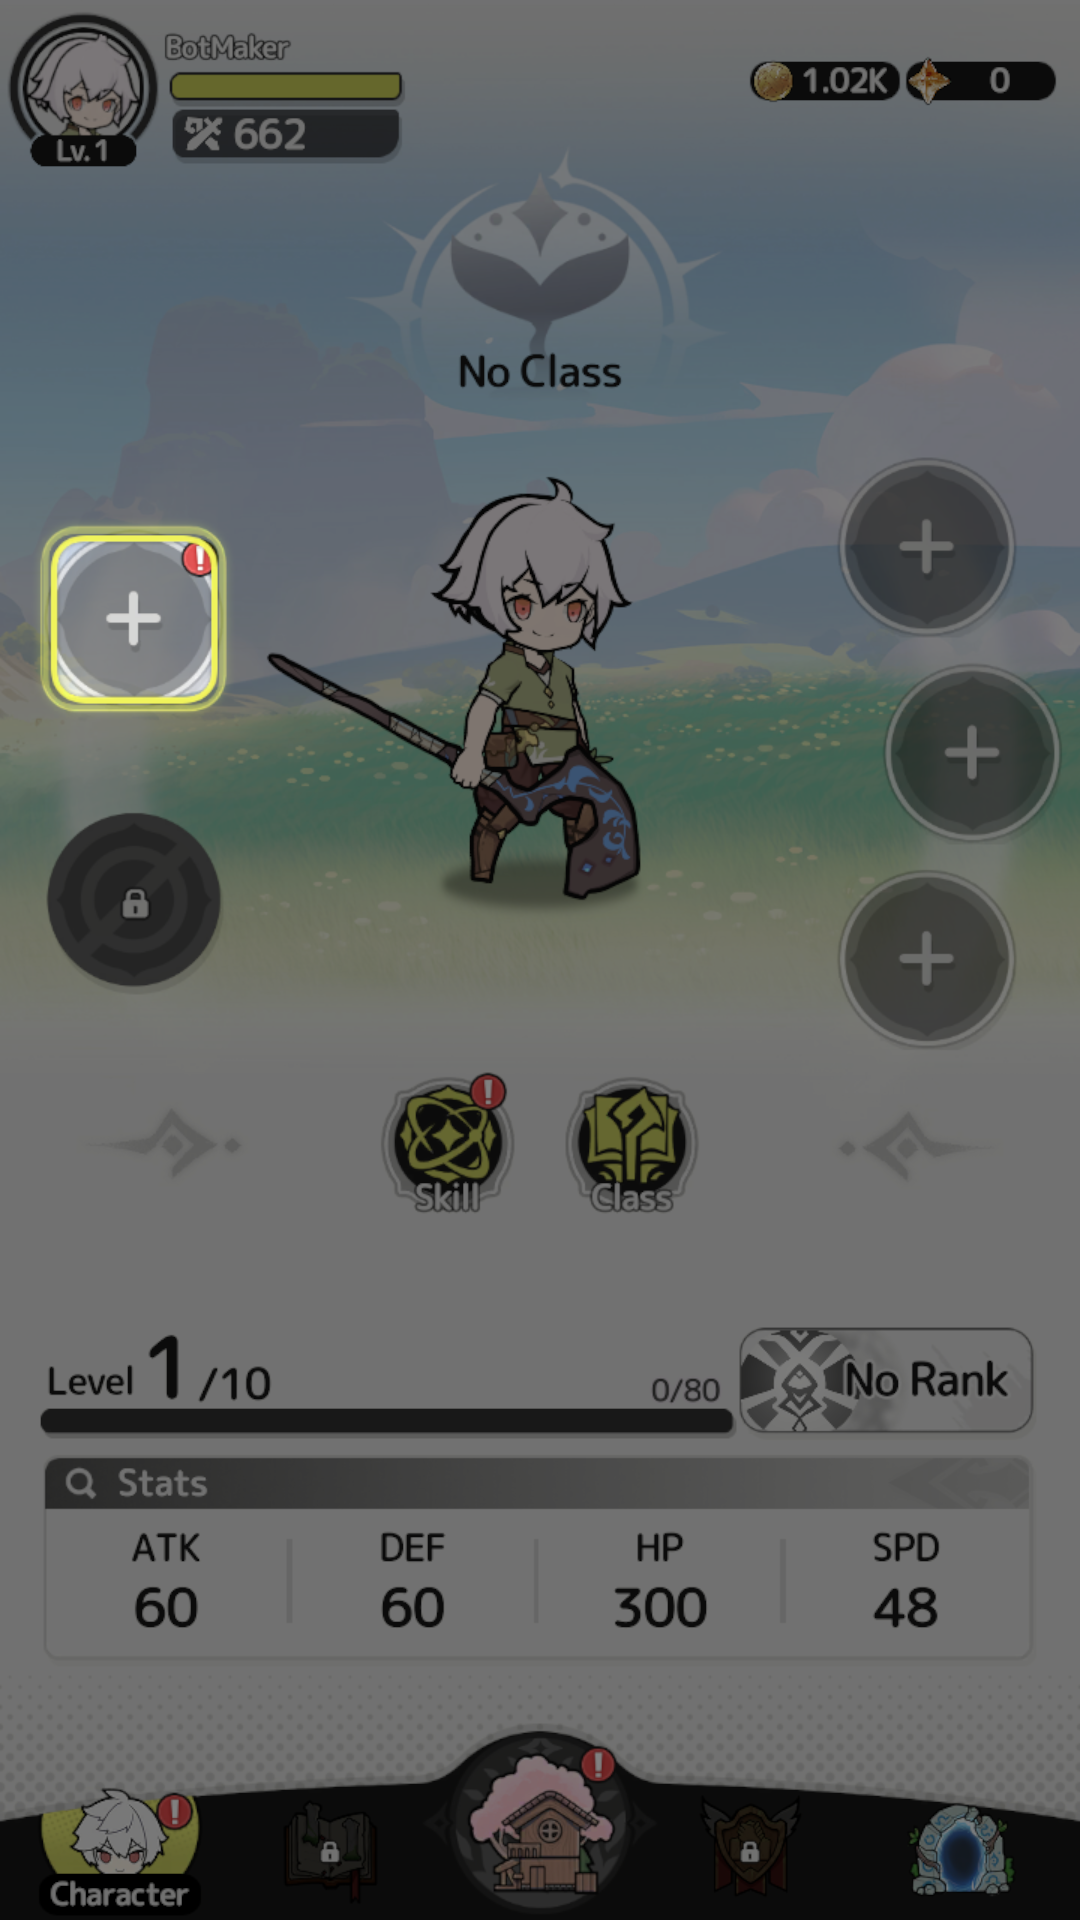
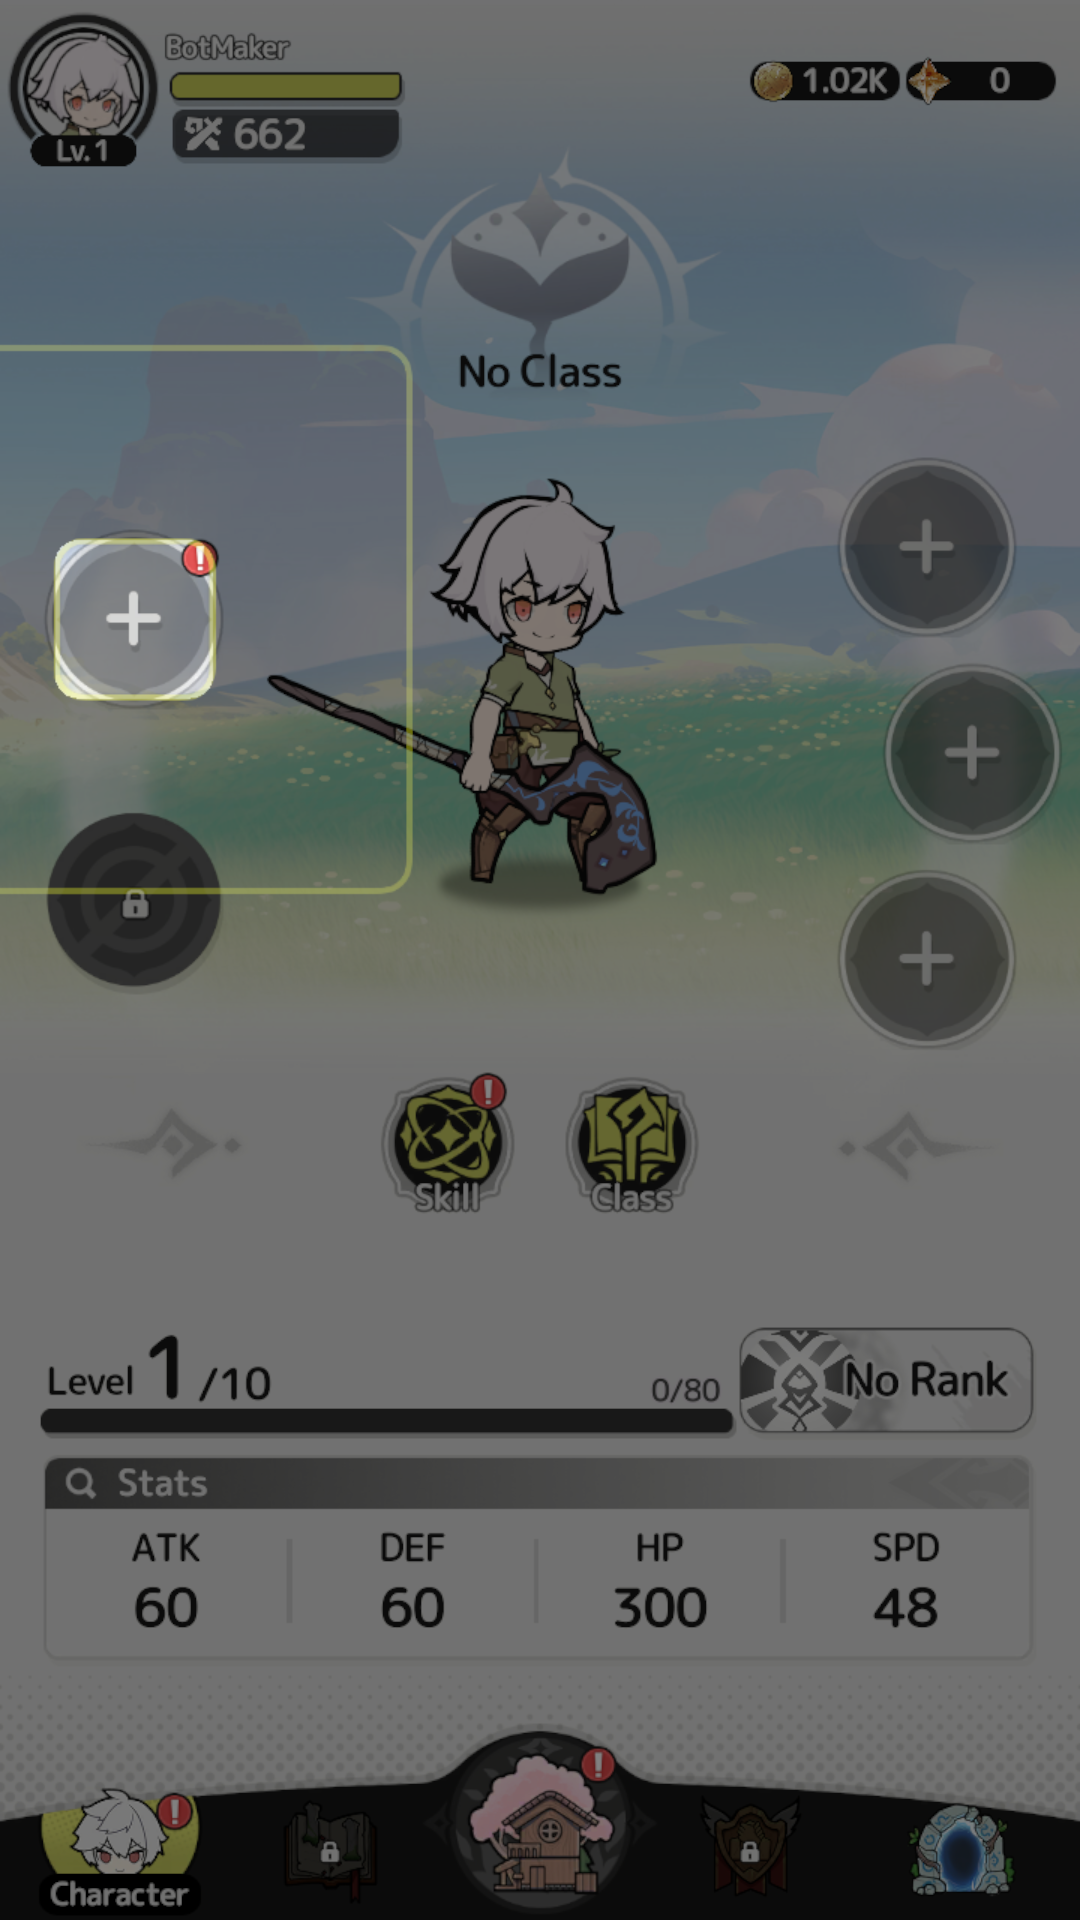
Change a plugin's value
BotMaker-Origin: safety

diff --git a/src/main/java/com/swordxstaff/plugins/com_github_botmakerdev/botmaker_sdk/Screens.java b/src/main/java/com/swordxstaff/plugins/com_github_botmakerdev/botmaker_sdk/Screens.java
@@ -689,10 +689,13 @@ public final class Screens {
     public static final StorageChest STORAGE_CHEST = new StorageChest();
 
     public static final class Character extends Screen {
+        public final Button charGearSlot = Button.of(Pictures.CHAR_GEAR_SLOT);
+
         @Override
         public Setup setup() {
             return Setup
                     .named("Character")
+                    .markers(List.of(Pictures.CHAR_CLASS_ICON))
                     .takes(Duration.ofMillis(7600L))
                     .shot("screens/CHARACTER.png")
                     .from(Screens.HOME.navCharacter);

diff --git a/src/main/java/com/swordxstaff/plugins/com_github_botmakerdev/botmaker_sdk/Pictures.java b/src/main/java/com/swordxstaff/plugins/com_github_botmakerdev/botmaker_sdk/Pictures.java
@@ -157,6 +157,10 @@ public final class Pictures {
             .at(new Rect(450, 1447, 56, 56));
     public static final ImageTemplate NAV_CHARACTER = new ImageTemplate("images/nav_character.png")
             .at(new Rect(86, 1810, 78, 84));
+    public static final ImageTemplate CHAR_CLASS_ICON = new ImageTemplate("images/char_class_icon.png")
+            .at(new Rect(582, 1088, 106, 80));
+    public static final ImageTemplate CHAR_GEAR_SLOT = new ImageTemplate("images/char_gear_slot.png")
+            .at(new Rect(98, 578, 74, 74));
     private Pictures() {
     }
 }
